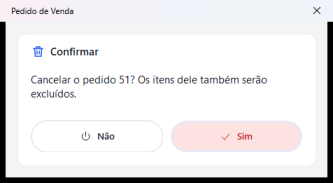
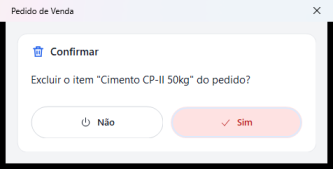
docs: projeto do teste Delphi na versao 2.0.0 (Model, DAO e Controller, 219 testes)

diff --git a/data/projetos.ts b/data/projetos.ts
@@ -15,9 +15,9 @@ export const projetos: Projeto[] = [
   {
     nome: "teste-delphi-pedido-venda",
     descricao:
-      "Tela de Pedido de Venda em Delphi (VCL) com FireDAC e Firebird, feita para um teste técnico: Clean Architecture, DDD, componentes visuais próprios, português e espanhol e 259 testes DUnitX.",
+      "Tela de Pedido de Venda em Delphi (VCL) com FireDAC e Firebird, feita para um teste técnico: camadas Model, DAO e Controller, SOLID, componentes visuais próprios, português e espanhol e 219 testes DUnitX.",
     linguagem: "Delphi",
-    tags: ["Delphi", "Firebird", "Clean Architecture"],
+    tags: ["Delphi", "Firebird", "SOLID"],
     url: `${base}/teste-delphi-pedido-venda`,
     funcionalidades: [
       "Cliente por código, sem cadastro: mostra nome, cidade e UF e valida cliente inexistente.",
@@ -25,16 +25,16 @@ export const projetos: Projeto[] = [
       "Gravação com transação (commit e rollback) do cabeçalho e dos itens, com número do pedido por generator e item com identity.",
       "Carregar e cancelar pedido por número, também com transação.",
       "Banco criado na primeira execução, com tela de configuração e tratamento de INI corrompido, banco que sumiu e servidor parado; o db.sql permite criar à mão.",
-      "Clean Architecture e DDD em quatro camadas (Domain, Application, Infrastructure e Presentation), com objetos de valor, agregado e eventos de domínio.",
+      "Camadas Model, DAO e Controller com interfaces e injeção de dependências (SOLID); uma versão alternativa com Clean Architecture e DDD fica na branch clean-ddd.",
       "Componentes visuais próprios, interface em português e espanhol e acessibilidade para leitores de tela (MSAA e UI Automation).",
-      "259 testes DUnitX, inclusive com Firebird real.",
+      "219 testes DUnitX, inclusive com Firebird real.",
     ],
-    tecnologias: ["Delphi (VCL)", "FireDAC", "Firebird", "DUnitX", "Clean Architecture", "DDD", "SOLID"],
+    tecnologias: ["Delphi (VCL)", "FireDAC", "Firebird", "DUnitX", "SOLID", "Clean Architecture e DDD (branch clean-ddd)"],
     telas: [
-      { arquivo: "pedido.png", legenda: "Captura real do aplicativo (v1.3.0): pedido com dois itens e o total recalculado." },
-      { arquivo: "confirmacao.png", legenda: "Captura real: confirmação de cancelamento no visual do sistema, no lugar da caixa padrão do Windows." },
+      { arquivo: "pedido.png", legenda: "Captura real do aplicativo (v2.0.0): pedido com dois itens e o total recalculado." },
+      { arquivo: "confirmacao.png", legenda: "Captura real: confirmação de exclusão de item no visual do sistema, no lugar da caixa padrão do Windows." },
       { arquivo: "inicializacao.png", legenda: "Captura real: servidor Firebird indisponível na abertura, com as ações para continuar." },
-      { arquivo: "testes.png", legenda: "Saída real do PedidoVenda.Tests.exe: 259 testes passando, sem vazamento de memória." },
+      { arquivo: "testes.png", legenda: "Saída real do PedidoVenda.Tests.exe: 219 testes passando, sem vazamento de memória." },
     ],
   },
   {
